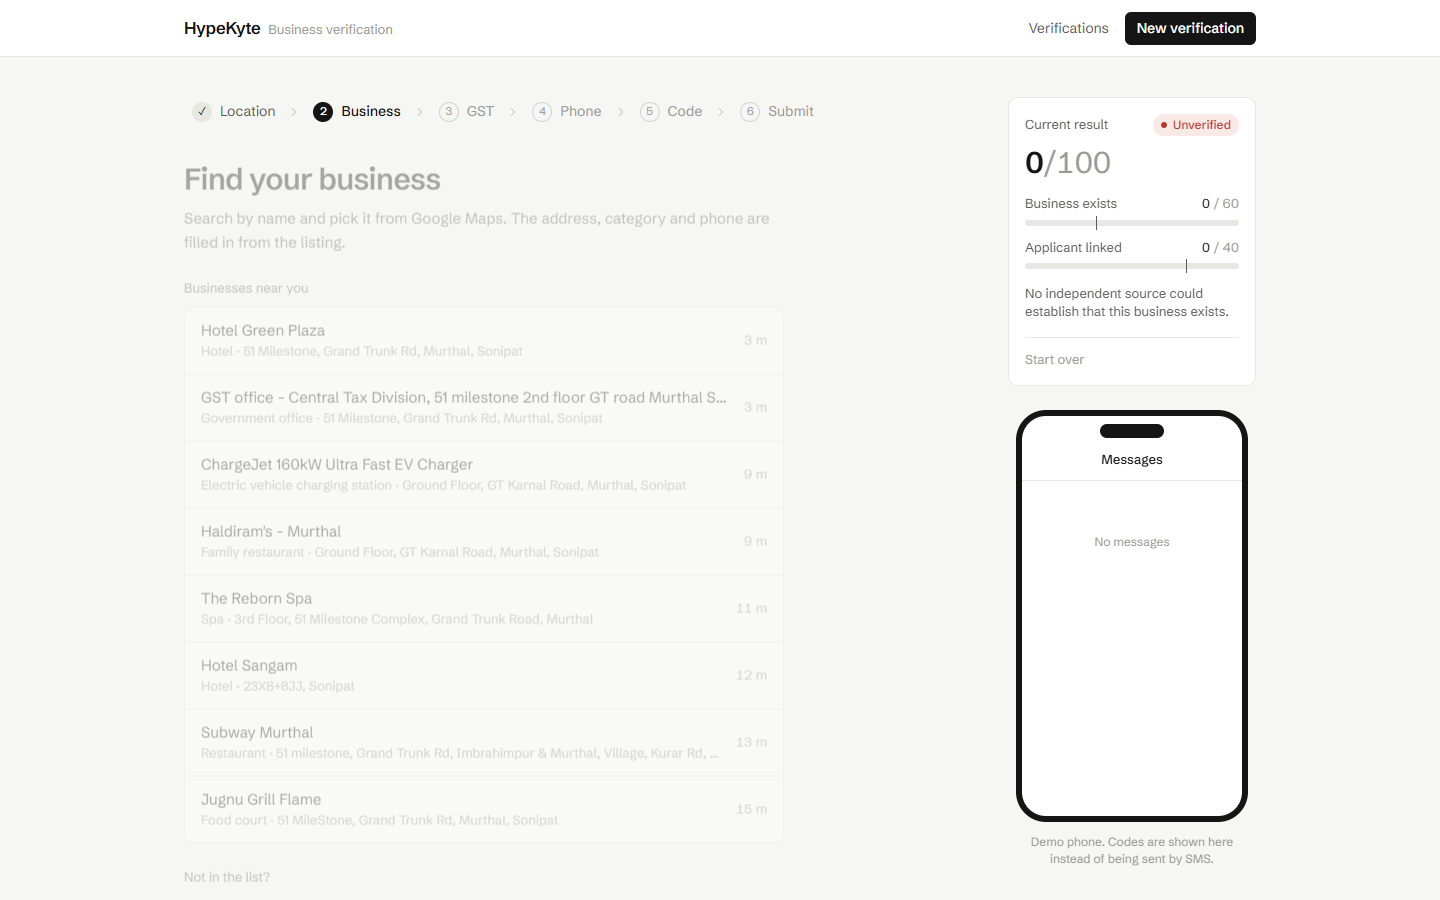
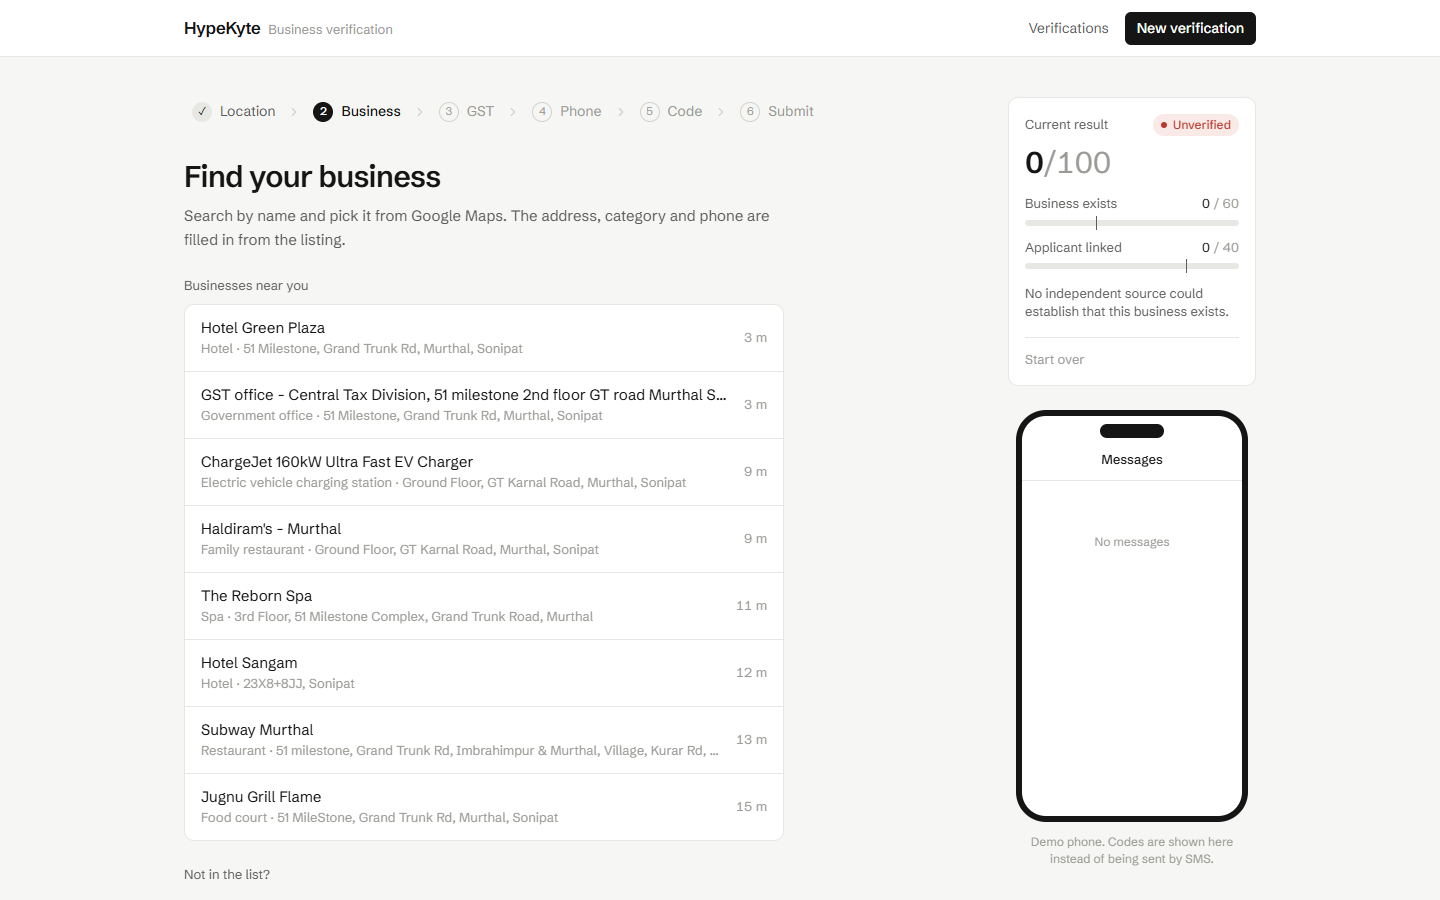
Hold a GST registry outage for review instead of rejecting
If the GST registry could not be reached and nothing else established the
business, existence was 0 and the result fell through to UNVERIFIED. That
contradicts the documented rule that a provider failure means "could not
check", not "does not exist". It now returns NEEDS_REVIEW, with a regression
test (21 tests total).

Also: retake screenshots (settle time, nearby-list wait), correct an
unverifiable "Bangalore landline" claim in research.md, update test counts.

diff --git a/backend/tests/test_scenarios.py b/backend/tests/test_scenarios.py
@@ -1,5 +1,7 @@
 """The five assessment scenarios plus fraud / edge cases, end-to-end through the API."""
 
+import gstin as gstin_module
+from config import ApiError
 from conftest import CANCELLED_GSTIN, KAVERI_GSTIN, UNREGISTERED_GSTIN, Flow
 
 
@@ -213,3 +215,16 @@ def test_session_never_exposes_full_phone_numbers(client):
     view = f.confirm()["session"]
     blob = str(view)
     assert "9876543210" not in blob and "98765 43210" not in blob
+
+
+def test_registry_outage_is_held_for_review_not_rejected(client, monkeypatch):
+    """A provider failure means 'could not check', so it must never turn into UNVERIFIED."""
+    def down(url):
+        raise ApiError("PROVIDER_UNAVAILABLE", "The GST registry is temporarily unavailable.", 502)
+
+    monkeypatch.setattr(gstin_module, "_request", down)
+    f = Flow(client, "Kaveri Textiles")
+    assert f.gstin(KAVERI_GSTIN, expect=502)["code"] == "PROVIDER_UNAVAILABLE"
+    r = f.finalize()
+    assert r["status"] == "NEEDS_REVIEW", r["headline"]
+    assert "could not be reached" in r["headline"]

diff --git a/docs/capture_screenshots.py b/docs/capture_screenshots.py
@@ -22,7 +22,8 @@ HALDIRAM = {"latitude": 29.04845, "longitude": 77.0665, "accuracy": 20}
 
 
 def shot(page: Page, name: str, full: bool = False) -> None:
-    time.sleep(0.7)
+    # Let step transitions, smooth scrolling and any toast from the previous action finish.
+    time.sleep(1.6)
     page.screenshot(path=str(OUT / f"{name}.png"), full_page=full)
     print("  saved", name)
 
@@ -60,7 +61,8 @@ def scenario_onsite_sandbox_gst(page: Page) -> None:
     page.wait_for_selector("text=Are you at the business")
     shot(page, "a1_locate")
     page.click("text=Yes, I'm there")
-    page.wait_for_selector("text=Businesses near you", timeout=20000)
+    # Wait for the list itself: "text=Businesses near you" also matches the loading message.
+    page.wait_for_selector("button:has-text(\"Haldiram's - Murthal\")", timeout=20000)
     shot(page, "a2_nearby")
     page.click("button:has-text(\"Haldiram's - Murthal\")")
     page.wait_for_selector("text=Is this your business?", timeout=20000)

diff --git a/backend/scoring.py b/backend/scoring.py
@@ -309,8 +309,15 @@ def evaluate(state: dict, prior_claims: list[dict] | None = None) -> dict:
     caps = sorted(caps, key=lambda m: -weight.get(m, 0))
     score = max(0, min(100, existence + association - penalty))
 
+    # A registry outage means "couldn't check", never "doesn't exist": hold for review instead.
+    registry_unreachable = bool(gst_error) and gst_error not in (
+        "GSTIN_INVALID_FORMAT", "GSTIN_INVALID_CHECKSUM", "GSTIN_NOT_FOUND")
+
     if hard:
         status, headline = "UNVERIFIED", hard[0]
+    elif existence == 0 and registry_unreachable:
+        status = "NEEDS_REVIEW"
+        headline = "The GST registry could not be reached, so nothing could be checked. Retry, or send for manual review."
     elif existence == 0:
         status = "UNVERIFIED"
         headline = (caps[0] if caps else "No independent source could establish that this business exists.")

diff --git a/research.md b/research.md
@@ -69,8 +69,9 @@ attributes to the business"**, and sends everything that can't reach that bar to
 **Google Places (New)**
 - Autocomplete "Haldiram Murthal" returns the establishment directly. Details give PIN `131039`, state `Haryana`, 4,654 reviews,
   `businessStatus: OPERATIONAL`.
-- The phone came back as `+91 8071 890 217`, which looks like a mobile (starts with 8) but is a Bangalore `080` landline. Google
-  formats real mobiles as `+91 98765 43210` (5-5), and that grouping is how the app detects landlines.
+- The phone came back as `+91 8071 890 217` (national format `08071 890 217`). The leading trunk `0` and the 4-3-3 grouping mark it as a
+  landline-style number. Google formats real mobiles 5-5 (`+91 98765 43210`), and that grouping is how the app decides whether a listed
+  number can receive an SMS. It is a formatting heuristic, so an unusual listing could be misjudged.
 - Text Search "Haldiram" near Murthal: **3 listings in PIN 131039**. This is a ready-made live example of scenario 5.
 - Nearby Search at 200 m: the listing is the 4th closest place, behind a hotel, a GST office and an EV charger. That's why the
   picker sorts name matches first.

diff --git a/README.md b/README.md
@@ -24,7 +24,7 @@ python -m venv .venv
 pip install -r requirements.txt
 copy .env.example .env            # then fill in GOOGLE_API_KEY and GSTIN_API_KEY
 uvicorn main:app --port 8000
-pytest tests                      # 20 scenario tests, providers mocked, no credits used
+pytest tests                      # 21 scenario tests, providers mocked, no credits used
 ```
 
 **Frontend** (Node 20+)
@@ -162,7 +162,7 @@ backend/
   database.py        SQLite: sessions, provider cache, verifications
   fixtures/          simulated GST contacts (clearly labelled)
   samples/           real captured gstinapi.in responses
-  tests/             20 scenario and edge-case tests
+  tests/             21 scenario and edge-case tests
 app-builder-studio/  React + TanStack Start frontend
   src/routes/verify.tsx     the step-by-step flow
   src/routes/case.$id.tsx   the result page

diff --git a/docs/scenarios.md b/docs/scenarios.md
@@ -2,7 +2,7 @@
 
 Two kinds of evidence back this document:
 
-- **Automated tests**: `backend/tests/test_scenarios.py`, 20 tests. Google Places and gstinapi.in are replaced by fakes that return
+- **Automated tests**: `backend/tests/test_scenarios.py`, 21 tests. Google Places and gstinapi.in are replaced by fakes that return
   the real response shapes (see `backend/samples/`). Everything else is the production code, called through the HTTP API.
 - **Live UI runs**: `docs/capture_screenshots.py` drives the real app against the live APIs. Screenshots are in `docs/screenshots/`.
   The GST account has only free credits, so live runs use the provider's sandbox GSTIN and free not-found lookups. Real-GSTIN
